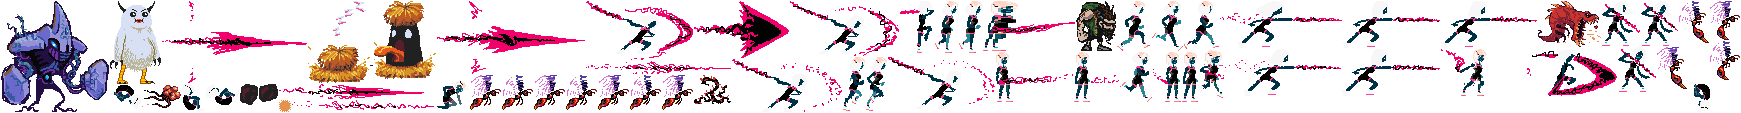
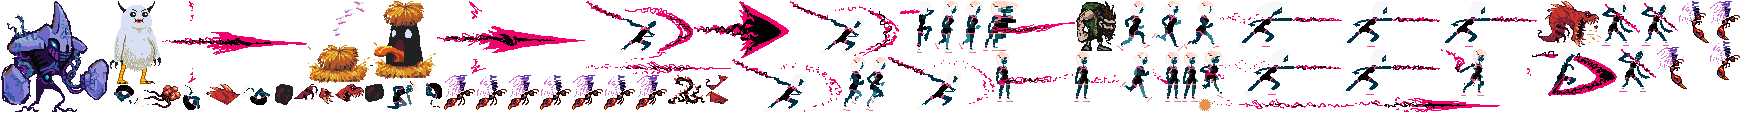
enemy confetti exclamation point

Changed region(s): [[0.093, 0.6637, 0.4342, 0.9823], [0.6824, 0.8761, 0.8685, 1.0], [0.9615, 0.7434, 0.9925, 0.8761]]

diff --git a/Src/EffectsController.js b/Src/EffectsController.js
@@ -220,3 +220,27 @@ EffectsController.prototype.Splash = function(tile) {
         this.timers.SetTimer('splash_timer', 100);
     }
 };
+
+EffectsController.prototype.DiceEnemy = function(enemyName, x, y) {
+
+    var pieces = [];
+
+    pieces.push(game.add.sprite(x, y, 'EnemySprites', enemyName + '/Dead0000'));
+    pieces.push(game.add.sprite(x, y, 'EnemySprites', enemyName + '/Dead0001'));
+    pieces.push(game.add.sprite(x, y, 'EnemySprites', enemyName + '/Dead0002'));
+    pieces.push(game.add.sprite(x, y, 'EnemySprites', enemyName + '/Dead0003'));
+    pieces.push(game.add.sprite(x, y, 'EnemySprites', enemyName + '/Dead0004'));
+
+    pieces.forEach(function(p) {
+        game.physics.enable(p, Phaser.Physics.ARCADE);
+
+        p.anchor.setTo(0.5, 0.5);
+
+        //randomly set the velocity, rotation, and lifespan
+        p.body.velocity.x = game.rnd.between(-200, 200);
+        p.body.velocity.y = game.rnd.between(-100, -700);
+        p.body.angularVelocity = game.rnd.between(500, 1500);
+
+        game.time.events.add(2000, function() { p.destroy(); } );
+    });
+};

diff --git a/Src/Enemy.js b/Src/Enemy.js
@@ -2,6 +2,7 @@ Enemy = function(game, x, y, name) {
     //instantiate the sprite
     Phaser.Sprite.call(this, game, x, y, 'EnemySprites');
     this.spriteType = 'enemy';
+    this.name = name;
     
     //enable its physics body
     game.physics.enable(this, Phaser.Physics.ARCADE);
@@ -201,8 +202,9 @@ function EnemyHit(f, e) {
 
         frauki.LandKill(e.maxEnergy / 2);
 
+        effectsController.DiceEnemy('Insectoid', e.body.center.x, e.body.center.y);
+        
         e.kill();
-
 
         numParticles += e.maxEnergy;
     } else {
